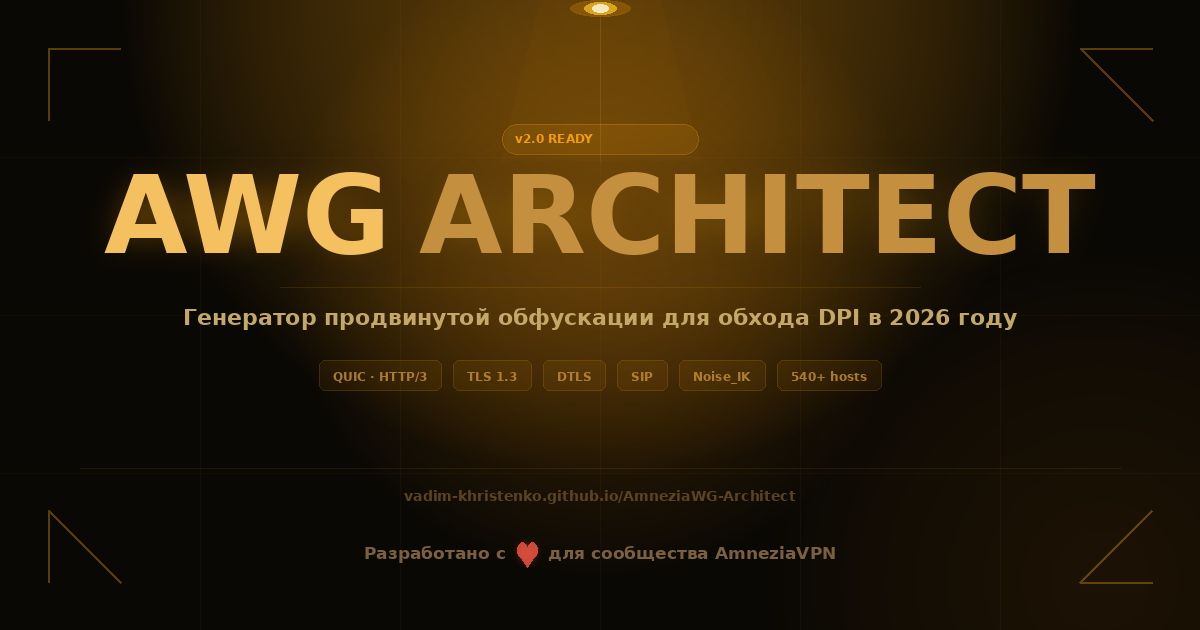
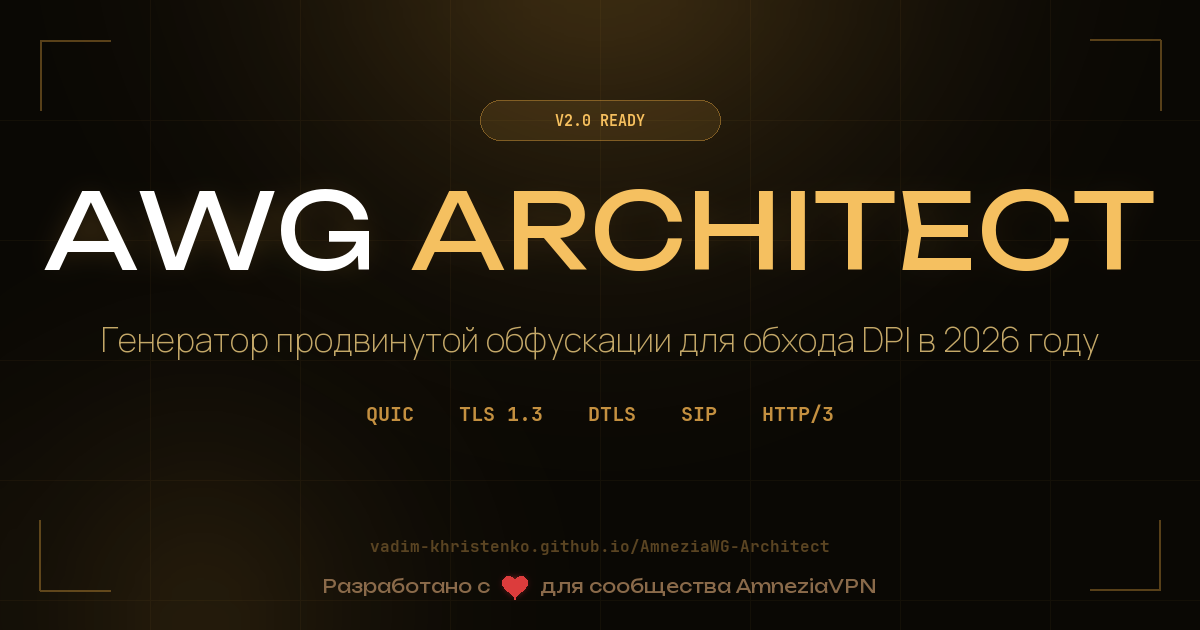
feat(about): add project info page and new OG images

diff --git a/about.html b/about.html
@@ -1,0 +1,197 @@
+<!doctype html>
+<html lang="ru">
+    <head>
+        <meta charset="UTF-8" />
+        <meta name="viewport" content="width=device-width, initial-scale=1.0" />
+        <title>О проекте — AmneziaWG Architect</title>
+        <meta
+            name="description"
+            content="Что такое AmneziaWG Architect? Это интерактивный инструмент для генерации сложных конфигураций обфускации трафика AmneziaWG. Создан для тех, кто хочет вернуть себе свободный интернет."
+        />
+
+        <link rel="preconnect" href="https://fonts.googleapis.com" />
+        <link
+            href="https://fonts.googleapis.com/css2?family=JetBrains+Mono:wght@300;400;500;700&family=Unbounded:wght@300;500;700;900&family=Manrope:wght@300;400;500;600&display=swap"
+            rel="stylesheet"
+        />
+
+        <link rel="stylesheet" href="assets/style.css" />
+        <link rel="stylesheet" href="assets/about.style.css" />
+
+        <script src="https://unpkg.com/lucide@latest"></script>
+
+        <link
+            rel="icon"
+            type="image/png"
+            href="assets/favicon-96x96.png"
+            sizes="96x96"
+        />
+        <link rel="icon" type="image/svg+xml" href="assets/favicon.svg" />
+        <link rel="shortcut icon" href="assets/favicon.ico" />
+    </head>
+    <body>
+        <div class="noise"></div>
+
+        <div class="about-wrap fade-in">
+            <a href="index.html" class="back-link">
+                <i data-lucide="arrow-left" style="width: 16px"></i> Вернуться к
+                генератору
+            </a>
+
+            <div class="hero-slogan">
+                Твой протокол — твои правила.<br />
+                <span>Невидимость по стандарту.</span>
+            </div>
+
+            <div class="section a1">
+                <h2><i data-lucide="info"></i> Что это за проект?</h2>
+                <p>
+                    <span class="highlight">AmneziaWG Architect</span> — это
+                    продвинутый веб-инструмент для создания уникальных профилей
+                    обфускации протокола <b>AmneziaWG</b>. Если обычный VPN
+                    просто шифрует данные, то Architect помогает «замаскировать»
+                    сам факт использования VPN.
+                </p>
+                <p>
+                    В современных реалиях системы анализа трафика (DPI) могут
+                    замечать характерные черты стандартных протоколов и
+                    блокировать их. Наш инструмент позволяет вам собрать
+                    «силуэт» другого, доверенного протокола: будь то
+                    видеозвонок, загрузка файлов или веб-серфинг.
+                </p>
+            </div>
+
+            <div class="section a2">
+                <h2><i data-lucide="help-circle"></i> Зачем это новичку?</h2>
+                <p>
+                    Если вы только начинаете пользоваться AmneziaVPN или подняли
+                    свой сервер через скрипты, стандартные настройки могут
+                    перестать работать из-за усиления фильтров DPI.
+                </p>
+                <ul class="feature-list">
+                    <li>
+                        <i data-lucide="check-circle"></i>
+                        <span>
+                            <b>Простая интеграция:</b> Названия параметров здесь
+                            (H1-H4, S1-S4, I1-I5)
+                            <b>в точности соответствуют</b> полям в приложении
+                            AmneziaVPN. Вам не нужно гадать, куда вставлять
+                            сгенерированные коды.
+                        </span>
+                    </li>
+                    <li>
+                        <i data-lucide="zap"></i>
+                        <span>
+                            <b>Умная генерация:</b> Инструмент не просто выдает
+                            случайные числа. Он соблюдает структуру реальных
+                            сетевых пакетов (QUIC, TLS, DTLS), делая вашу
+                            мимикрию максимально правдоподобной.
+                        </span>
+                    </li>
+                    <li>
+                        <i data-lucide="refresh-cw"></i>
+                        <span>
+                            <b>Режим «Не работает»:</b> Если ваш конфиг
+                            заблокировали, просто нажмите кнопку в генераторе —
+                            он усилит параметры и выдаст новую итерацию с более
+                            высокой энтропией.
+                        </span>
+                    </li>
+                </ul>
+            </div>
+
+            <div class="section a3">
+                <h2><i data-lucide="server"></i> Для опытных пользователей</h2>
+                <p>
+                    Для тех, кто держит свои <b>Self-Hosted</b> серверы на Linux
+                    или использует роутеры (Keenetic, OpenWrt):
+                </p>
+                <ul class="feature-list">
+                    <li>
+                        <i data-lucide="code"></i>
+                        <span>
+                            <b>Гибкое управление тегами:</b> Вы можете вручную
+                            включать или отключать CPS-теги
+                            (<code>&lt;c&gt;</code>, <code>&lt;t&gt;</code>,
+                            <code>&lt;r&gt;</code>), чтобы добиться
+                            совместимости с разными версиями ядер и клиентов.
+                        </span>
+                    </li>
+                    <li>
+                        <i data-lucide="shield"></i>
+                        <span>
+                            <b>Безопасность параметров:</b> Генератор
+                            автоматически следит за ограничениями протокола
+                            (например, <code>S4 ≤ 32</code> или уникальность
+                            <code>H1-H4</code>), предотвращая ошибки в конфигах.
+                        </span>
+                    </li>
+                </ul>
+            </div>
+
+            <div class="section a4">
+                <h2><i data-lucide="lock"></i> Полная приватность</h2>
+                <p>Проект работает по принципу <b>Zero-Data</b>:</p>
+                <ul class="feature-list">
+                    <li>
+                        <i data-lucide="cpu"></i>
+                        <span>
+                            <b>Client-Side:</b> Весь код выполняется в вашем
+                            браузере. Никакие данные не отправляются на сервер,
+                            у нас нет базы данных и аналитики.
+                        </span>
+                    </li>
+                    <li>
+                        <i data-lucide="eye-off"></i>
+                        <span>
+                            <b>Offline Ready:</b> Вы можете сохранить эту
+                            страницу и пользоваться ей без доступа к интернету —
+                            логика генерации останется доступной.
+                        </span>
+                    </li>
+                </ul>
+            </div>
+
+            <!-- Footer -->
+            <div class="footer">
+                <div class="footer-slogan">
+                    AmneziaWG Architect — Спроектировано для свободы.
+                </div>
+                <div class="footer-links">
+                    <a
+                        href="https://github.com/Vadim-Khristenko/AmneziaWG-Architect"
+                        target="_blank"
+                        rel="noopener noreferrer"
+                    >
+                        <i data-lucide="github" class="icon-s"></i> Исходный код
+                    </a>
+                    <a
+                        href="https://t.me/amnezia_vpn"
+                        target="_blank"
+                        rel="noopener noreferrer"
+                    >
+                        <i data-lucide="send" class="icon-s"></i> Telegram Chat
+                        (Amnezia)
+                    </a>
+                    <a
+                        href="https://github.com/amnezia-vpn/"
+                        target="_blank"
+                        rel="noopener noreferrer"
+                    >
+                        <i data-lucide="github" class="icon-s"></i> AmneziaVPN
+                        Organization
+                    </a>
+                </div>
+                <div class="footer-copy">
+                    AmneziaWG Architect &copy; 2026 | Инструмент для свободного
+                    интернета<br />
+                    Разработано с ❤ для сообщества AmneziaVPN
+                </div>
+            </div>
+        </div>
+
+        <script>
+            lucide.createIcons();
+        </script>
+    </body>
+</html>

diff --git a/assets/about.style.css b/assets/about.style.css
@@ -1,0 +1,150 @@
+/* About Page Specific Styles */
+.about-wrap {
+    max-width: 900px;
+    margin: 0 auto;
+    padding: 60px 20px;
+    display: flex;
+    flex-direction: column;
+    gap: 30px;
+}
+
+/* Hero Section */
+.hero-slogan {
+    font-family: var(--fu);
+    font-weight: 900;
+    font-size: clamp(1.5rem, 4vw, 2.8rem);
+    color: var(--accent);
+    text-align: center;
+    margin-bottom: 20px;
+    line-height: 1.2;
+    text-transform: uppercase;
+}
+
+.hero-slogan span {
+    color: #fff;
+    -webkit-text-stroke: 1px var(--accent);
+}
+
+/* Back Link Navigation */
+.back-link {
+    display: inline-flex;
+    align-items: center;
+    gap: 8px;
+    color: var(--text3);
+    text-decoration: none;
+    font-family: var(--fu);
+    font-size: 0.8rem;
+    font-weight: 700;
+    margin-bottom: 10px;
+    transition: 0.3s;
+}
+
+.back-link:hover {
+    color: var(--accent);
+    transform: translateX(-5px);
+}
+
+/* Content Sections */
+.section {
+    background: var(--bg2);
+    border: 1px solid var(--border2);
+    border-radius: 20px;
+    padding: 40px;
+    transition: 0.4s cubic-bezier(0.175, 0.885, 0.32, 1.275);
+}
+
+.section:hover {
+    border-color: var(--border);
+    transform: translateY(-5px);
+    box-shadow: 0 10px 40px rgba(0, 0, 0, 0.4);
+}
+
+.section h2 {
+    font-family: var(--fu);
+    font-size: 1.3rem;
+    font-weight: 800;
+    margin-bottom: 25px;
+    display: flex;
+    align-items: center;
+    gap: 15px;
+    color: var(--text);
+}
+
+.section p {
+    font-size: 1rem;
+    color: var(--text2);
+    line-height: 1.8;
+    margin-bottom: 20px;
+}
+
+.section p:last-child {
+    margin-bottom: 0;
+}
+
+.highlight {
+    color: var(--accent);
+    font-weight: 700;
+}
+
+/* Feature Lists */
+.feature-list {
+    list-style: none;
+    display: flex;
+    flex-direction: column;
+    gap: 18px;
+    margin: 20px 0;
+}
+
+.feature-list li {
+    display: flex;
+    gap: 15px;
+    color: var(--text2);
+    font-size: 0.95rem;
+    line-height: 1.6;
+}
+
+/* Fix: Preventing <b> from jumping to new line */
+.feature-list li span b {
+    color: var(--text);
+    display: inline; /* Changed from block to inline */
+    margin-right: 4px;
+}
+
+.feature-list i {
+    color: var(--accent);
+    flex-shrink: 0;
+    margin-top: 2px;
+}
+
+/* Animations for sections */
+.a1 {
+    animation: fadeInUp 0.6s ease-out 0.1s both;
+}
+.a2 {
+    animation: fadeInUp 0.6s ease-out 0.2s both;
+}
+.a3 {
+    animation: fadeInUp 0.6s ease-out 0.3s both;
+}
+.a4 {
+    animation: fadeInUp 0.6s ease-out 0.4s both;
+}
+
+/* Responsive Adjustments */
+@media (max-width: 600px) {
+    .section {
+        padding: 25px;
+    }
+
+    .about-wrap {
+        padding-top: 40px;
+    }
+
+    .hero-slogan {
+        font-size: 1.6rem;
+    }
+
+    .feature-list li {
+        font-size: 0.85rem;
+    }
+}

diff --git a/index.html b/index.html
@@ -37,7 +37,7 @@
             href="https://fonts.googleapis.com/css2?family=JetBrains+Mono:wght@300;400;500;700&family=Unbounded:wght@300;500;700;900&family=Manrope:wght@300;400;500;600&display=swap"
             rel="stylesheet"
         />
-        <link rel="stylesheet" href="style.css" />
+        <link rel="stylesheet" href="assets/style.css" />
         <!-- Lucide Icons CDN -->
         <script src="https://unpkg.com/lucide@latest"></script>
     </head>
@@ -783,6 +783,9 @@
                     На страже вашей анонимности, приватности и безопасности.
                 </div>
                 <div class="footer-links">
+                    <a href="about.html">
+                        <i data-lucide="info" class="icon-s"></i> О проекте
+                    </a>
                     <a
                         href="https://github.com/Vadim-Khristenko/AmneziaWG-Architect"
                         target="_blank"
